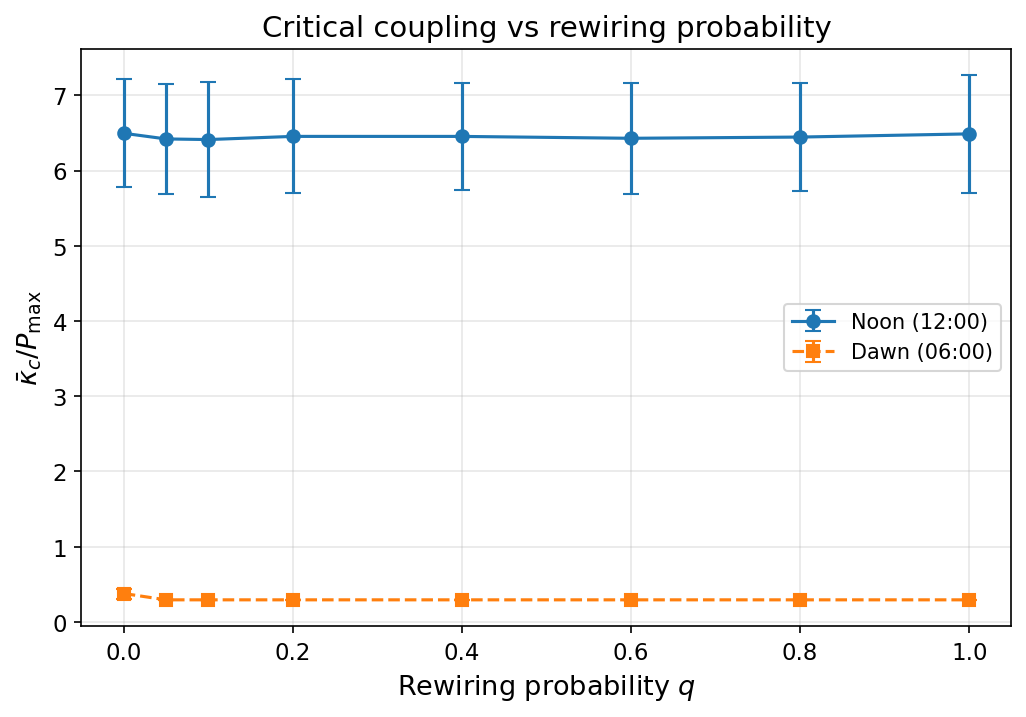
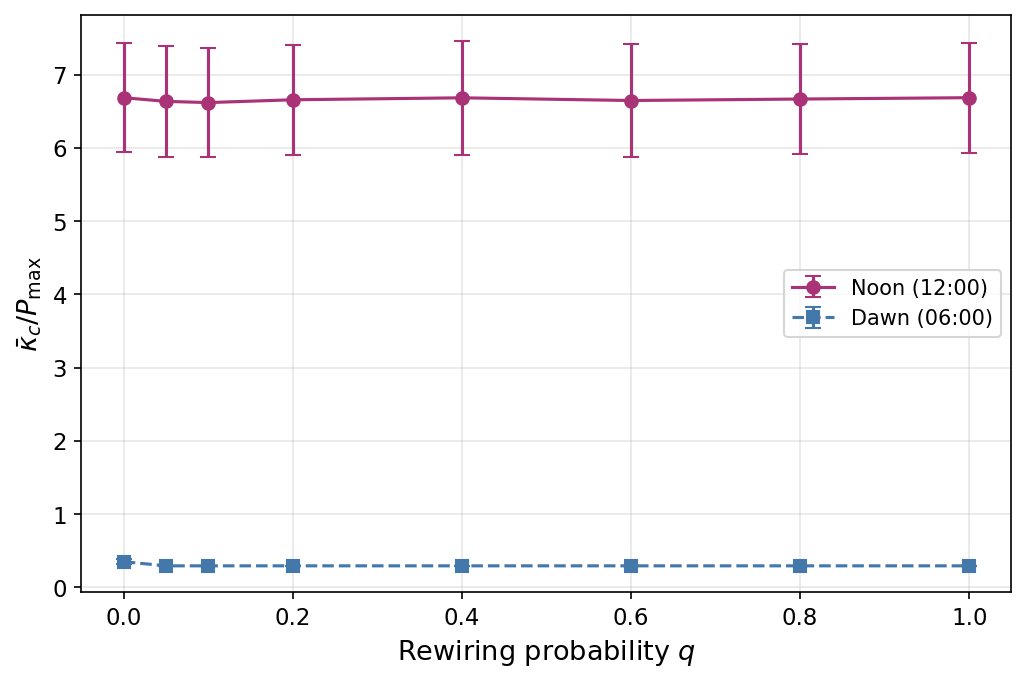
style: update figures and color palettes for improved accessibility

diff --git a/sq4_data/plot_sq4.py b/sq4_data/plot_sq4.py
@@ -28,6 +28,21 @@ SCRIPT_DIR = os.path.dirname(os.path.abspath(__file__))
 RESULTS_DIR = os.path.join(SCRIPT_DIR, "results")
 FIGURES_DIR = os.path.join(SCRIPT_DIR, "figures")
 
+# Paul Tol colorblind-safe palette
+STRATEGY_COLORS = {
+    "baseline":   "#888888",
+    "random":     "#4477AA",
+    "max_power":  "#228833",
+    "score":      "#EE6677",
+    "pcc_direct": "#AA3377",
+}
+M_COLORS = {
+    "m=0_pcc_direct":  "#888888",
+    "m=4_pcc_direct":  "#AA3377",
+    "m=8_pcc_direct":  "#BBBBDD",
+    "m=4_random":      "#4477AA",
+}
+
 
 def _setup_style():
     """Set up publication-quality matplotlib defaults."""
@@ -51,15 +66,14 @@ def plot_4a1_kc_vs_q(summary_path: str, out_dir: str):
     fig, ax = plt.subplots()
     ax.errorbar(
         df["q"], df["kc_noon_mean"], yerr=df["kc_noon_std"],
-        fmt="o-", capsize=4, color="tab:blue", label="Noon (12:00)",
+        fmt="o-", capsize=4, color="#AA3377", label="Noon (12:00)",
     )
     ax.errorbar(
         df["q"], df["kc_dawn_mean"], yerr=df["kc_dawn_std"],
-        fmt="s--", capsize=4, color="tab:orange", label="Dawn (06:00)",
+        fmt="s--", capsize=4, color="#4477AA", label="Dawn (06:00)",
     )
     ax.set_xlabel("Rewiring probability $q$")
     ax.set_ylabel(r"$\bar{\kappa}_c / P_{\max}$")
-    ax.set_title("Critical coupling vs rewiring probability")
     ax.legend()
     ax.grid(True, alpha=0.3)
     out = os.path.join(out_dir, "fig_4a1_kc_vs_q.png")
@@ -72,10 +86,9 @@ def plot_4a2_ratio_vs_q(summary_path: str, out_dir: str):
     """Fig 4a2: peak/valley ratio vs q."""
     df = pd.read_csv(summary_path)
     fig, ax = plt.subplots()
-    ax.plot(df["q"], df["peak_valley_ratio"], "o-", color="tab:red")
+    ax.plot(df["q"], df["peak_valley_ratio"], "o-", color="#EE6677")
     ax.set_xlabel("Rewiring probability $q$")
     ax.set_ylabel("Peak / Valley ratio")
-    ax.set_title("Diurnal vulnerability ratio vs rewiring probability")
     ax.grid(True, alpha=0.3)
     out = os.path.join(out_dir, "fig_4a2_ratio_vs_q.png")
     fig.savefig(out, bbox_inches="tight")
@@ -88,13 +101,12 @@ def plot_4b1_strategy_bars(summary_path: str, out_dir: str):
     df = pd.read_csv(summary_path)
     fig, ax = plt.subplots()
     x = np.arange(len(df))
-    colors = ["gray", "tab:blue", "tab:green", "tab:orange", "tab:purple"]
+    colors = [STRATEGY_COLORS[s] for s in ["baseline", "random", "max_power", "score", "pcc_direct"]]
     bars = ax.bar(x, df["kc_noon_mean"], yerr=df["kc_noon_std"],
                   capsize=4, color=colors[:len(df)], alpha=0.8)
     ax.set_xticks(x)
     ax.set_xticklabels(df["strategy"], rotation=30, ha="right")
     ax.set_ylabel(r"$\bar{\kappa}_c / P_{\max}$ (noon)")
-    ax.set_title("Strategy comparison: critical coupling at noon (m=4)")
     ax.grid(True, alpha=0.3, axis="y")
     out = os.path.join(out_dir, "fig_4b1_strategy_bars.png")
     fig.savefig(out, bbox_inches="tight")
@@ -105,7 +117,7 @@ def plot_4b1_strategy_bars(summary_path: str, out_dir: str):
 def plot_4b2_strategy_timeseries(results_dir: str, m: int, out_dir: str):
     """Fig 4b2: full 7-day κ_c(t) overlaid for all strategies."""
     strategies = ["baseline", "random", "max_power", "score", "pcc_direct"]
-    colors = ["gray", "tab:blue", "tab:green", "tab:orange", "tab:purple"]
+    colors = [STRATEGY_COLORS[s] for s in strategies]
     labels = ["Baseline", "Random", "Max power", "Score", "PCC direct"]
 
     fig, ax = plt.subplots(figsize=(14, 4))
@@ -126,7 +138,6 @@ def plot_4b2_strategy_timeseries(results_dir: str, m: int, out_dir: str):
 
     ax.set_xlabel("Time (hours)")
     ax.set_ylabel(r"$\bar{\kappa}_c / P_{\max}$")
-    ax.set_title(f"7-day critical coupling time series (m={m} added edges)")
     ax.legend(loc="upper left")
     ax.grid(True, alpha=0.3)
 
@@ -146,16 +157,15 @@ def plot_4b3_kc_vs_m(summary_path: str, out_dir: str):
     fig, ax = plt.subplots()
     ax.errorbar(
         df["m"], df["kc_noon_mean"], yerr=df["kc_noon_std"],
-        fmt="o-", capsize=4, color="tab:blue", label="Noon (12:00)",
+        fmt="o-", capsize=4, color="#AA3377", label="Noon (12:00)",
     )
     ax.errorbar(
         df["m"], df["kc_dawn_mean"], yerr=df["kc_dawn_std"],
-        fmt="s--", capsize=4, color="tab:orange", label="Dawn (06:00)",
+        fmt="s--", capsize=4, color="#4477AA", label="Dawn (06:00)",
     )
     ax.set_xlabel("Number of added edges $m$")
     ax.set_ylabel(r"$\bar{\kappa}_c / P_{\max}$")
     strategy = df["strategy"].iloc[0] if "strategy" in df.columns else "best"
-    ax.set_title(f"Critical coupling vs added edges ({strategy})")
     ax.legend()
     ax.grid(True, alpha=0.3)
     stag = f"_{strategy}" if strategy != "best" else ""
@@ -168,9 +178,9 @@ def plot_4b3_kc_vs_m(summary_path: str, out_dir: str):
 def plot_4b3_combined(results_dir: str, out_dir: str):
     """Fig 4b3 combined: all 3 smart strategies + analytic/empirical bounds."""
     strategies = [
-        ("max_power", "Max power", "tab:green", "o-"),
-        ("score", "Score", "tab:orange", "s-"),
-        ("pcc_direct", "PCC direct", "tab:purple", "^-"),
+        ("max_power", "Max power", STRATEGY_COLORS["max_power"], "o-"),
+        ("score", "Score", STRATEGY_COLORS["score"], "s-"),
+        ("pcc_direct", "PCC direct", STRATEGY_COLORS["pcc_direct"], "^-"),
     ]
 
     fig, ax = plt.subplots()
@@ -187,16 +197,15 @@ def plot_4b3_combined(results_dir: str, out_dir: str):
     # Analytic lower bound: 20.85 / (4 + m)
     m_cont = np.linspace(0, 20, 200)
     lb = 20.85 / (4 + m_cont)
-    ax.plot(m_cont, lb, "--", color="tab:red", label=r"Lower bound $20.85/(4+m)$")
-    ax.fill_between(m_cont, 0, lb, color="tab:red", alpha=0.08, label="Guaranteed unstable")
+    ax.plot(m_cont, lb, "--", color="#EE6677", label=r"Lower bound $20.85/(4+m)$")
+    ax.fill_between(m_cont, 0, lb, color="#EE6677", alpha=0.08, label="Guaranteed unstable")
 
     # Empirical fit: 25.7 / (4 + m)
     emp = 25.7 / (4 + m_cont)
-    ax.plot(m_cont, emp, "--", color="tab:blue", label=r"Empirical fit $25.7/(4+m)$")
+    ax.plot(m_cont, emp, "--", color="#4477AA", label=r"Empirical fit $25.7/(4+m)$")
 
     ax.set_xlabel("Number of added edges $m$")
     ax.set_ylabel(r"$\bar{\kappa}_c / P_{\max}$")
-    ax.set_title("Critical coupling vs added edges: strategy comparison")
     ax.legend()
     ax.grid(True, alpha=0.3)
 
@@ -210,11 +219,10 @@ def plot_4b4_ratio_vs_m(summary_path: str, out_dir: str):
     """Fig 4b4: peak/valley ratio vs m."""
     df = pd.read_csv(summary_path)
     fig, ax = plt.subplots()
-    ax.plot(df["m"], df["peak_valley_ratio"], "o-", color="tab:red")
+    ax.plot(df["m"], df["peak_valley_ratio"], "o-", color="#EE6677")
     ax.set_xlabel("Number of added edges $m$")
     ax.set_ylabel("Peak / Valley ratio")
     strategy = df["strategy"].iloc[0] if "strategy" in df.columns else "best"
-    ax.set_title(f"Diurnal vulnerability ratio vs added edges ({strategy})")
     ax.grid(True, alpha=0.3)
     stag = f"_{strategy}" if strategy != "best" else ""
     out = os.path.join(out_dir, f"fig_4b4_ratio_vs_m{stag}.png")

diff --git a/sq3_data/plot_sq3.py b/sq3_data/plot_sq3.py
@@ -23,12 +23,12 @@ RESULTS_DIR = os.path.join(SCRIPT_DIR, "results")
 FIGURES_DIR = os.path.join(SCRIPT_DIR, "figures")
 os.makedirs(FIGURES_DIR, exist_ok=True)
 
-# Colors for m configs
-COLORS = {
-    "m=0_pcc_direct": "#1f77b4",
-    "m=4_pcc_direct": "#ff7f0e",
-    "m=8_pcc_direct": "#2ca02c",
-    "m=4_random": "#d62728",
+# Paul Tol colorblind-safe palette
+M_COLORS = {
+    "m=0_pcc_direct":  "#888888",
+    "m=4_pcc_direct":  "#AA3377",
+    "m=8_pcc_direct":  "#BBBBDD",
+    "m=4_random":      "#4477AA",
 }
 LABELS = {
     "m=0_pcc_direct": "m=0 (baseline)",
@@ -58,7 +58,7 @@ def plot_sq3_1():
 
         for (m, strategy), group in df_t.groupby(["m", "strategy"]):
             config_key = f"m={m}_{strategy}"
-            color = COLORS.get(config_key, "gray")
+            color = M_COLORS.get(config_key, "gray")
             label = LABELS.get(config_key, config_key)
 
             # Compute mean ± std across instances
@@ -87,7 +87,6 @@ def plot_sq3_1():
     for ax in axes[1, :]:
         ax.set_xlabel(r"$\alpha / \alpha^*$", fontsize=12)
 
-    fig.suptitle("SQ3-1: Cascade Resilience Across Times of Day", fontsize=14)
     fig.tight_layout()
 
     fig_path = os.path.join(FIGURES_DIR, "fig_sq3_1_sigmoid_multipanel.png")
@@ -155,9 +154,9 @@ def plot_sq3_2():
             width = 0.35
 
             ax.bar(x - width/2, pcc_means, width, label="PCC edges",
-                   color="#e74c3c", alpha=0.8)
+                   color="#EE6677", alpha=0.8)
             ax.bar(x + width/2, nonpcc_means, width, label="Non-PCC edges",
-                   color="#3498db", alpha=0.8)
+                   color="#4477AA", alpha=0.8)
 
             ax.set_xticks(x)
             ax.set_xticklabels(configs, rotation=45, ha='right', fontsize=8)
@@ -175,8 +174,6 @@ def plot_sq3_2():
             if row_idx == 0 and col_idx == 0:
                 ax.legend(fontsize=9, loc='upper left')
 
-    fig.suptitle(r"SQ3-2: Edge Survival by Type at Fixed Absolute $\alpha$",
-                 fontsize=14, y=1.01)
     fig.tight_layout()
 
     fig_path = os.path.join(FIGURES_DIR, "fig_sq3_2_edge_survival.png")
@@ -204,11 +201,11 @@ def plot_sq3_3():
     ax = axes[0]
     df_optd = pd.read_csv(optd_sweep)
     agg = df_optd.groupby("alpha_over_alpha_star")["S"].agg(["mean", "std"]).reset_index()
-    ax.plot(agg["alpha_over_alpha_star"], agg["mean"], '-', color="#2ecc71", linewidth=2,
+    ax.plot(agg["alpha_over_alpha_star"], agg["mean"], '-', color="#228833", linewidth=2,
             label="WS(50,4,0.1) — no PCC")
     ax.fill_between(agg["alpha_over_alpha_star"],
                      agg["mean"] - agg["std"], agg["mean"] + agg["std"],
-                     alpha=0.2, color="#2ecc71")
+                     alpha=0.2, color="#228833")
 
     # Overlay PCC m=0 at noon if available
     if has_pcc:
@@ -216,12 +213,12 @@ def plot_sq3_3():
         df_noon = df_pcc[(df_pcc["timestep"] == "12:00") & (df_pcc["m"] == 0)]
         if not df_noon.empty:
             agg_pcc = df_noon.groupby("alpha_over_alpha_star")["S"].agg(["mean", "std"]).reset_index()
-            ax.plot(agg_pcc["alpha_over_alpha_star"], agg_pcc["mean"], '-', color="#e74c3c",
+            ax.plot(agg_pcc["alpha_over_alpha_star"], agg_pcc["mean"], '-', color="#EE6677",
                     linewidth=2, label="PCC network m=0 (noon)")
             ax.fill_between(agg_pcc["alpha_over_alpha_star"],
                              agg_pcc["mean"] - agg_pcc["std"],
                              agg_pcc["mean"] + agg_pcc["std"],
-                             alpha=0.2, color="#e74c3c")
+                             alpha=0.2, color="#EE6677")
 
     ax.axhline(0.5, color='gray', linestyle='--', alpha=0.5)
     ax.set_xlabel(r"$\alpha / \alpha^*$", fontsize=11)
@@ -237,7 +234,7 @@ def plot_sq3_3():
     rhos = df_rho["rho"].dropna().values
 
     if len(rhos) > 0:
-        ax.hist(rhos, bins=20, color="#2ecc71", alpha=0.7, edgecolor="black")
+        ax.hist(rhos, bins=20, color="#228833", alpha=0.7, edgecolor="black")
         ax.axvline(np.mean(rhos), color='red', linestyle='--',
                    label=f"mean={np.mean(rhos):.3f}")
         ax.axvline(np.median(rhos), color='blue', linestyle='--',
@@ -254,12 +251,11 @@ def plot_sq3_3():
     n_total = len(df_rho)
     ax.bar(["Converged", "Not converged"],
            [n_conv, n_total - n_conv],
-           color=["#2ecc71", "#e74c3c"], alpha=0.8, edgecolor="black")
+           color=["#228833", "#EE6677"], alpha=0.8, edgecolor="black")
     ax.set_ylabel("Count", fontsize=11)
     ax.set_title(f"(c) Bisection Convergence ({100*n_conv/n_total:.0f}%)", fontsize=12)
     ax.grid(True, alpha=0.3, axis='y')
 
-    fig.suptitle("SQ3-3: Option D — Non-PCC Network Validation", fontsize=14, y=1.02)
     fig.tight_layout()
 
     fig_path = os.path.join(FIGURES_DIR, "fig_sq3_3_option_d.png")
@@ -286,7 +282,7 @@ def plot_sq3_4():
 
     for (m, strategy), group in df_noon.groupby(["m", "strategy"]):
         config_key = f"m={m}_{strategy}"
-        color = COLORS.get(config_key, "gray")
+        color = M_COLORS.get(config_key, "gray")
         label = LABELS.get(config_key, config_key)
 
         agg = group.groupby("alpha_over_alpha_star")["T_rounds"].agg(["mean", "std"]).reset_index()
@@ -299,7 +295,6 @@ def plot_sq3_4():
 
     ax.set_xlabel(r"$\alpha / \alpha^*$", fontsize=12)
     ax.set_ylabel(r"Cascade depth $T$", fontsize=12)
-    ax.set_title("SQ3-4: Cascade Depth at Noon (t=12:00)", fontsize=13)
     ax.legend(fontsize=10)
     ax.grid(True, alpha=0.3)
 

diff --git a/sq2_data/plot_results.py b/sq2_data/plot_results.py
@@ -20,6 +20,15 @@ import ternary
 SCRIPT_DIR = os.path.dirname(os.path.abspath(__file__))
 DPI = 300
 
+# Paul Tol colorblind-safe palette
+STRATEGY_COLORS = {
+    "baseline":   "#888888",
+    "random":     "#4477AA",
+    "max_power":  "#228833",
+    "score":      "#EE6677",
+    "pcc_direct": "#AA3377",
+}
+
 
 def parse_args():
     parser = argparse.ArgumentParser(description="Plot SQ2 results")
@@ -128,11 +137,6 @@ def plot_trajectory(results_dir: str, output_dir: str, season: str):
     cbar = plt.colorbar(sm, ax=tax.get_axes(), fraction=0.03, pad=0.08)
     cbar.set_label("Hours from Monday 00:00", fontsize=10)
 
-    tax.set_title(
-        f"Simplex Trajectory — {season.capitalize()} Week",
-        fontsize=13, pad=20,
-    )
-
     fig_path = os.path.join(output_dir, f"fig3A_trajectory_{season}.png")
     plt.savefig(fig_path, dpi=DPI, bbox_inches="tight")
     plt.close()
@@ -161,22 +165,18 @@ def plot_kappa_timeseries(results_dir: str, output_dir: str, season: str):
 
     fig, ax = plt.subplots(figsize=(12, 3.5))
 
-    ax.plot(x, kc_mean, "b-", linewidth=1.5, label="$\\bar{\\kappa}_c / P_{\\max}$")
+    ax.plot(x, kc_mean, "-", color="#4477AA", linewidth=1.5, label="$\\bar{\\kappa}_c / P_{\\max}$")
     ax.fill_between(
         x,
         np.maximum(kc_mean - kc_std, 0),
         kc_mean + kc_std,
         alpha=0.25,
-        color="blue",
+        color="#4477AA",
         label="$\\pm 1$ SD",
     )
 
     ax.set_xlabel("Day of Week", fontsize=12)
     ax.set_ylabel("$\\bar{\\kappa}_c / P_{\\max}$", fontsize=12)
-    ax.set_title(
-        f"Critical Coupling Time Series — {season.capitalize()} Week",
-        fontsize=13,
-    )
 
     # x ticks at day boundaries
     ax.set_xticks(range(N_DAYS := 7))
